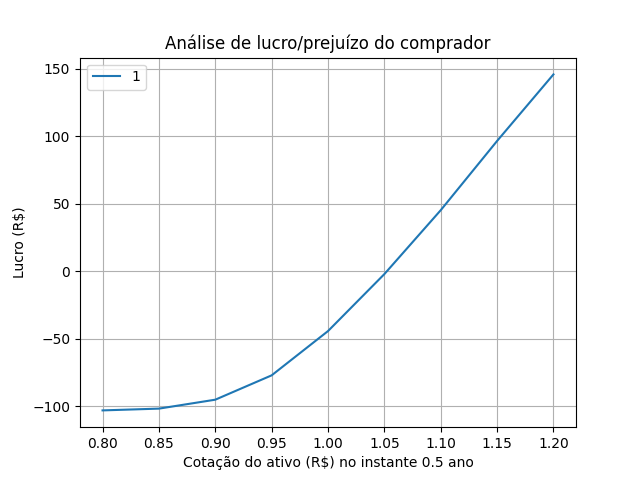
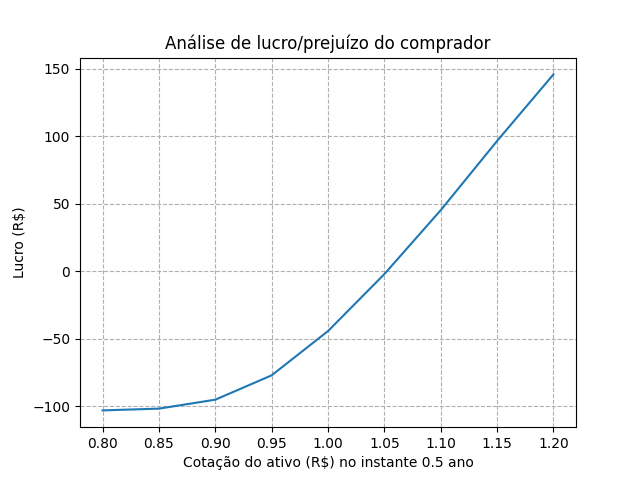
graficos consertados

Changed region(s): [[0.125, 0.125, 0.2188, 0.1875]]

diff --git a/option.py b/option.py
@@ -35,7 +35,7 @@ def main():
 
         print("\nSolucao da equacao de Black-Scholes")
         print("\nSolucao da equacao de Black-Scholes", file=external_file)
-        testSolutionWithoutVectorization = input("deseja comparar os tempos das solucoes com e sem vetorizacao? (isso pode demorar mais) [s/n] :")
+        testSolutionWithoutVectorization = input("deseja comparar os tempos das solucoes com e sem vetorizacao? (isso pode demorar mais) [s/n] : ")
         print("deseja comparar os tempos das solucoes com e sem vetorizacao? (isso pode demorar mais) [s/n] : ", testSolutionWithoutVectorization, file=external_file)
 
         print("aguarde alguns segundos...")
@@ -49,7 +49,6 @@ def main():
         met.printTimeComparation(t01, tf1, tf2, external_file, testSolutionWithoutVectorization)
 
         print("\nResultados:")
-        print("\nResultados:", file=external_file)
 
         # Solução analítica para t = 0
         solutionAnalytical = met.solveBlackScholesAnalytically(S, K, sigma, r, T, 0)
@@ -84,8 +83,8 @@ def main():
             met.profitAndPriceAnalysisSpecificS(St, t, M, N, L, T, K, sigma, r, quantity, prize, filename)
         else:
             listOfS = met.generateSamplesOfS(K)
-            met.profitAndPriceAnalysis(listOfS, t, M, N, L, T, K, sigma, r, quantity, prize, filename)
             print("Gerando tabelas e graficos...")
+            met.profitAndPriceAnalysis(listOfS, t, M, N, L, T, K, sigma, r, quantity, prize, filename)
             print("Tabela e grafico gerados para analise de lucros! Consulte as pastas 'tabelas' e 'graficos'")
             print("Tabela e grafico gerados para analise de lucros! Consulte as pastas 'tabelas' e 'graficos'", file=external_file)
 

diff --git a/methods.py b/methods.py
@@ -29,7 +29,6 @@ def solveBlackScholesNumerically1(M, N, L, T, K, sigma, r):
             u[i][j] = u[i][j-1] + (deltaTau/(deltaX**2))*((sigma**2)/2)*(u[i-1][j-1] - 2*u[i][j-1] + u[i+1][j-1])
             v[i][j] = u[i][j]*np.exp(-r*tal_j)
 
-        x = K*np.exp(L + (sigma**2)*tal_j/2)
         u[N][j] = K*np.exp(L + (sigma**2)*tal_j/2)
         v[N][j] = u[N][j]*np.exp(-r*tal_j)
 
@@ -152,13 +151,22 @@ def profitAndPriceAnalysis(listOfS, t, M, N, L, T, K, sigma, r, quantity, prize,
         listOfPrices.append(v_ij)
         profit = quantity*v_ij - prize
         listOfProfits.append(profit)
-    plt.plot(listOfS, listOfProfits)
+
+    plt.plot(listOfS, listOfProfits, "")
     plt.xlabel('Cotação do ativo (R$) no instante ' + str(t) + ' ano')
     plt.ylabel('Lucro (R$)')
     plt.title("Análise de lucro/prejuízo do comprador")
-    plt.legend(str(quantity) + "opções de compra")
-    plt.grid()
-    plt.savefig("graficos/"+filename+".png")
+    plt.grid(True, linestyle='--')
+
+    textstr = '\n'.join((
+    r'$\mu=%.2f$' % (1, ),
+    r'$\mathrm{median}=%.2f$' % (1, ),
+    r'$\sigma=%.2f$' % (sigma, )))
+    props = dict(boxstyle='round', facecolor='wheat', alpha=0.5)
+    plt.text(-5, 60, textstr, fontsize = 22, 
+         bbox = props)
+
+    plt.savefig("graficos/"+filename+".png") 
     plt. clf()
 
     table = np.zeros((len(listOfS), 3))
